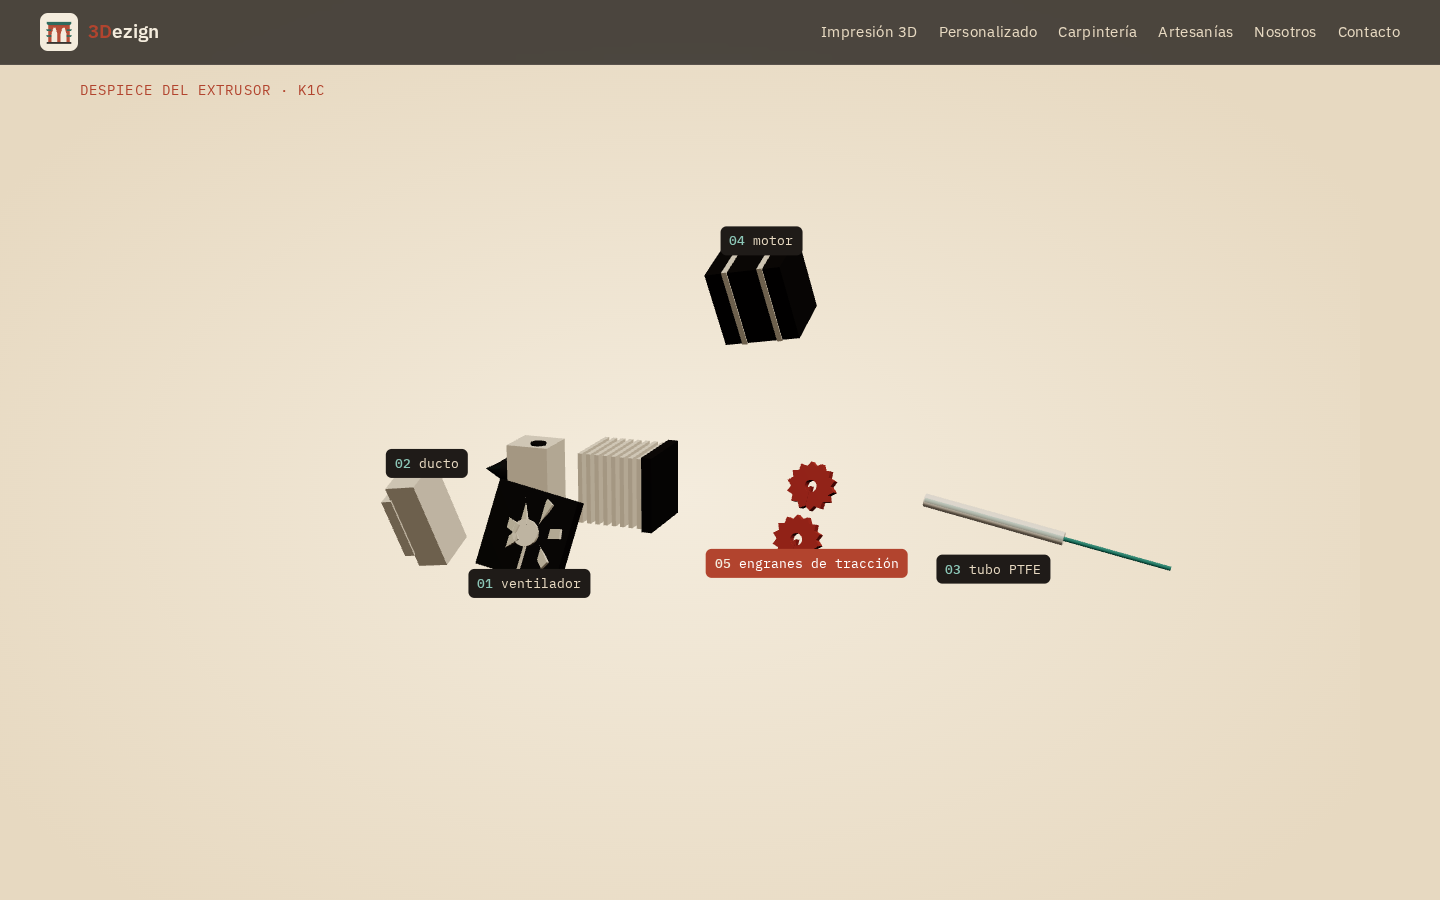
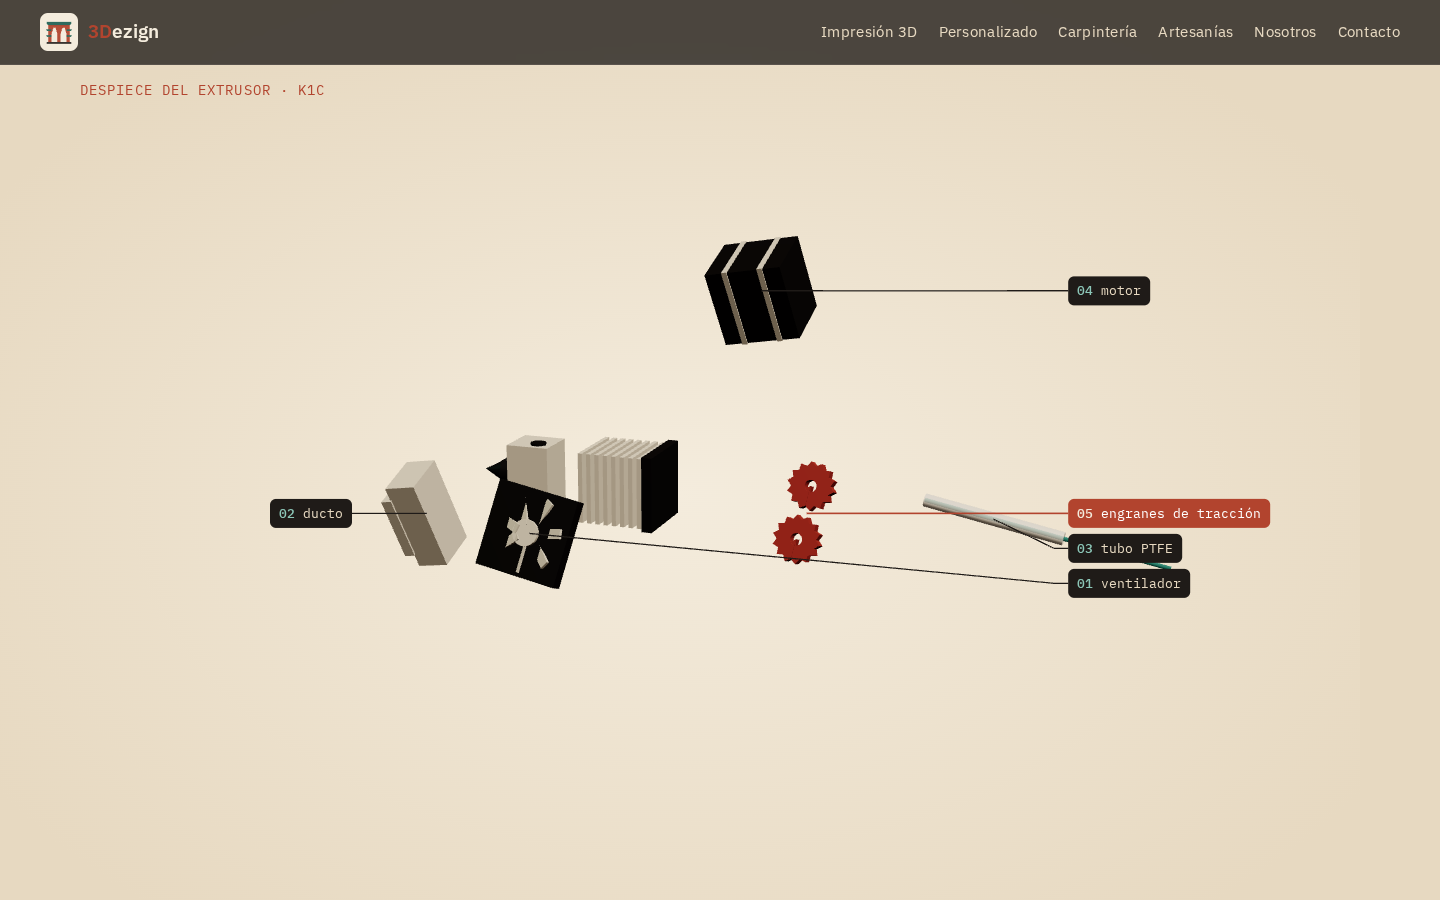
Despiece escritorio: rótulos en dos columnas izq/der con línea guía carbón (terracota la activa), anti-solape

diff --git a/src/despiece.js b/src/despiece.js
@@ -33,7 +33,10 @@ export function createDespiece(canvas, labelsEl, { reduced }) {
   const N = parts.length, hot = new THREE.Color(C.terracota);
   labelsEl.innerHTML = parts.map((p, i) => `<span class="dl"><b>${String(i + 1).padStart(2, '0')}</b> ${p.label}</span>`).join('');
   const labels = [...labelsEl.children];
-  let W = 1, H = 1, mobile = false, last = -1;
+  // líneas guía (estilo plano técnico) del rótulo a su pieza
+  const svg = document.createElementNS('http://www.w3.org/2000/svg', 'svg'); svg.setAttribute('class', 'dlines'); labelsEl.prepend(svg);
+  const lines = parts.map(() => { const l = document.createElementNS('http://www.w3.org/2000/svg', 'polyline'); svg.append(l); return l; });
+  let hxs = [], W = 1, H = 1, mobile = false, last = -1;
   function layout() {
     const r = canvas.getBoundingClientRect(); W = r.width || 1; H = r.height || 1; mobile = W < 820;
     renderer.setPixelRatio(Math.min(devicePixelRatio, mobile ? 1.5 : 1.75)); renderer.setSize(W, H, false);
@@ -46,6 +49,7 @@ export function createDespiece(canvas, labelsEl, { reduced }) {
     const t = Math.tan(THREE.MathUtils.degToRad(camera.fov / 2)), padW = mobile ? 1.9 : 1.35, padH = mobile ? 1.3 : 1.45;
     const d = Math.max(sz.y * padH / 2 / t, sz.x * padW / 2 / (t * camera.aspect)) + sz.z / 2;
     camera.position.set(c.x, c.y + (mobile ? 0.25 : 0.2) * sz.y * 0.1, c.z + d); camera.lookAt(c.x, c.y, c.z); camera.updateProjectionMatrix();
+    hxs = parts.map(q => q.g.getWorldPosition(new THREE.Vector3()).project(camera).x);
     last = -1; draw(cur);
   }
   const sm = t => t * t * (3 - 2 * t), cl = (a, b, v) => Math.min(b, Math.max(a, v));
@@ -71,20 +75,24 @@ export function createDespiece(canvas, labelsEl, { reduced }) {
       const x = (v.x + 1) / 2 * W, y = (1 - v.y) / 2 * H, show = q.s > 0.6 || reduced;
       el.style.opacity = show ? 1 : 0; el.classList.toggle('on', i === active);
       // celular: columnas izquierda/derecha según el lado de la pieza; escritorio: arriba/abajo alternado
-      const right = mobile ? x >= cx : i % 2 === 0;
-      L.push({ el, x, y: mobile ? y : y + (right ? 50 : -50), right, w: el.offsetWidth, h: el.offsetHeight, show });
+      const right = mobile ? x >= cx : i % 2 === 1;
+      L.push({ el, i, hx: hxs[i], px: x, py: y, x, y, right, w: el.offsetWidth, h: el.offsetHeight, show });
     });
-    if (mobile) for (const side of [true, false]) { // evita solapes: separa en vertical dentro de cada columna
-      const col = L.filter(l => l.show && l.right === side).sort((a, b) => a.y - b.y);
-      for (let k = 1; k < col.length; k++) col[k].y = Math.max(col[k].y, col[k - 1].y + col[k - 1].h + 6);
-    }
-    if (!mobile) { const vis = L.filter(l => l.show).sort((a, b) => a.y - b.y); // escritorio: empuja hacia abajo la que choque
-      vis.forEach((l, k) => { for (let j = 0; j < k; j++) { const o = vis[j]; if (Math.abs(l.x - o.x) < (l.w + o.w) / 2 + 6 && l.y < o.y + (l.h + o.h) / 2 + 4) l.y = o.y + (l.h + o.h) / 2 + 4; } }); }
+    const off = Math.min(150, W * 0.11);
+    // escritorio: reparto equilibrado 5 izq / 5 der según la posición en pantalla del estado abierto (sin líneas cruzadas)
+    if (!mobile) { const ord = [...L].sort((a, b) => a.hx - b.hx); ord.forEach((l, k) => { l.right = k >= ord.length / 2; }); }
+    // escritorio: dos columnas fuera del conjunto (izquierda/derecha), como un plano técnico
+    const xs = L.map(l => l.px), minX = Math.min(...xs) - off * 0.5, maxX = Math.max(...xs) + off * 0.5;
+    L.forEach(l => { let lx = mobile ? (l.right ? W - 8 - l.w : 8) : (l.right ? maxX : minX - l.w); l.lx = Math.max(6, Math.min(W - 6 - l.w, lx)); l.ty = Math.max(H * 0.12, l.y - l.h / 2); });
+    // evita solapes: de arriba abajo, empuja la que choque con una anterior
+    const vis = L.filter(l => l.show).sort((a, b) => a.ty - b.ty);
+    vis.forEach((l, k) => { for (let j = 0; j < k; j++) { const o = vis[j]; if (l.lx < o.lx + o.w + 6 && o.lx < l.lx + l.w + 6 && l.ty < o.ty + o.h + 6) l.ty = o.ty + o.h + 6; } });
     L.forEach(l => {
-      let lx = mobile ? (l.right ? W - 8 - l.w : 8) : l.x - l.w / 2;
-      lx = Math.max(6, Math.min(W - 6 - l.w, lx));
-      const ly = Math.max(H * 0.12, Math.min(H - l.h - 8, l.y - l.h / 2));
+      // celular: columnas en los bordes; escritorio: izquierda/derecha alternado con línea guía
+      const lx = l.lx, ly = Math.min(H - l.h - 8, l.ty);
       l.el.style.transform = `translate(${lx}px,${ly}px)`;
+      const ex = l.right ? lx : lx + l.w, ey = ly + l.h / 2, kx = ex + (l.right ? -14 : 14);
+      const ln = lines[l.i]; ln.setAttribute('points', `${ex},${ey} ${kx},${ey} ${l.px},${l.py}`); ln.style.opacity = l.show ? 1 : 0; ln.classList.toggle('on', l.el.classList.contains('on'));
     });
   }
   addEventListener('resize', layout); requestAnimationFrame(layout);

diff --git a/src/style.css b/src/style.css
@@ -90,3 +90,4 @@ footer{position:relative;z-index:2}
 .dl{position:absolute;left:0;top:0;font-family:var(--mono);font-size:.82rem;white-space:nowrap;background:var(--carbon);color:var(--arena);padding:.25rem .55rem;border-radius:6px;transition:opacity .25s,background .25s}
 .dl b{color:#8cc7b8;font-weight:500}.dl.on{background:var(--terracota);color:var(--blanco)}.dl.on b{color:var(--crema)}
 @media (max-width:820px){.dl{font-size:.72rem;padding:.2rem .45rem}.dtit{top:4.6rem;left:1rem}}
+.dlines{position:absolute;inset:0;width:100%;height:100%;overflow:visible}.dlines polyline{fill:none;stroke:var(--carbon);stroke-width:1.2;transition:opacity .25s}.dlines polyline.on{stroke:var(--terracota);stroke-width:1.6}
